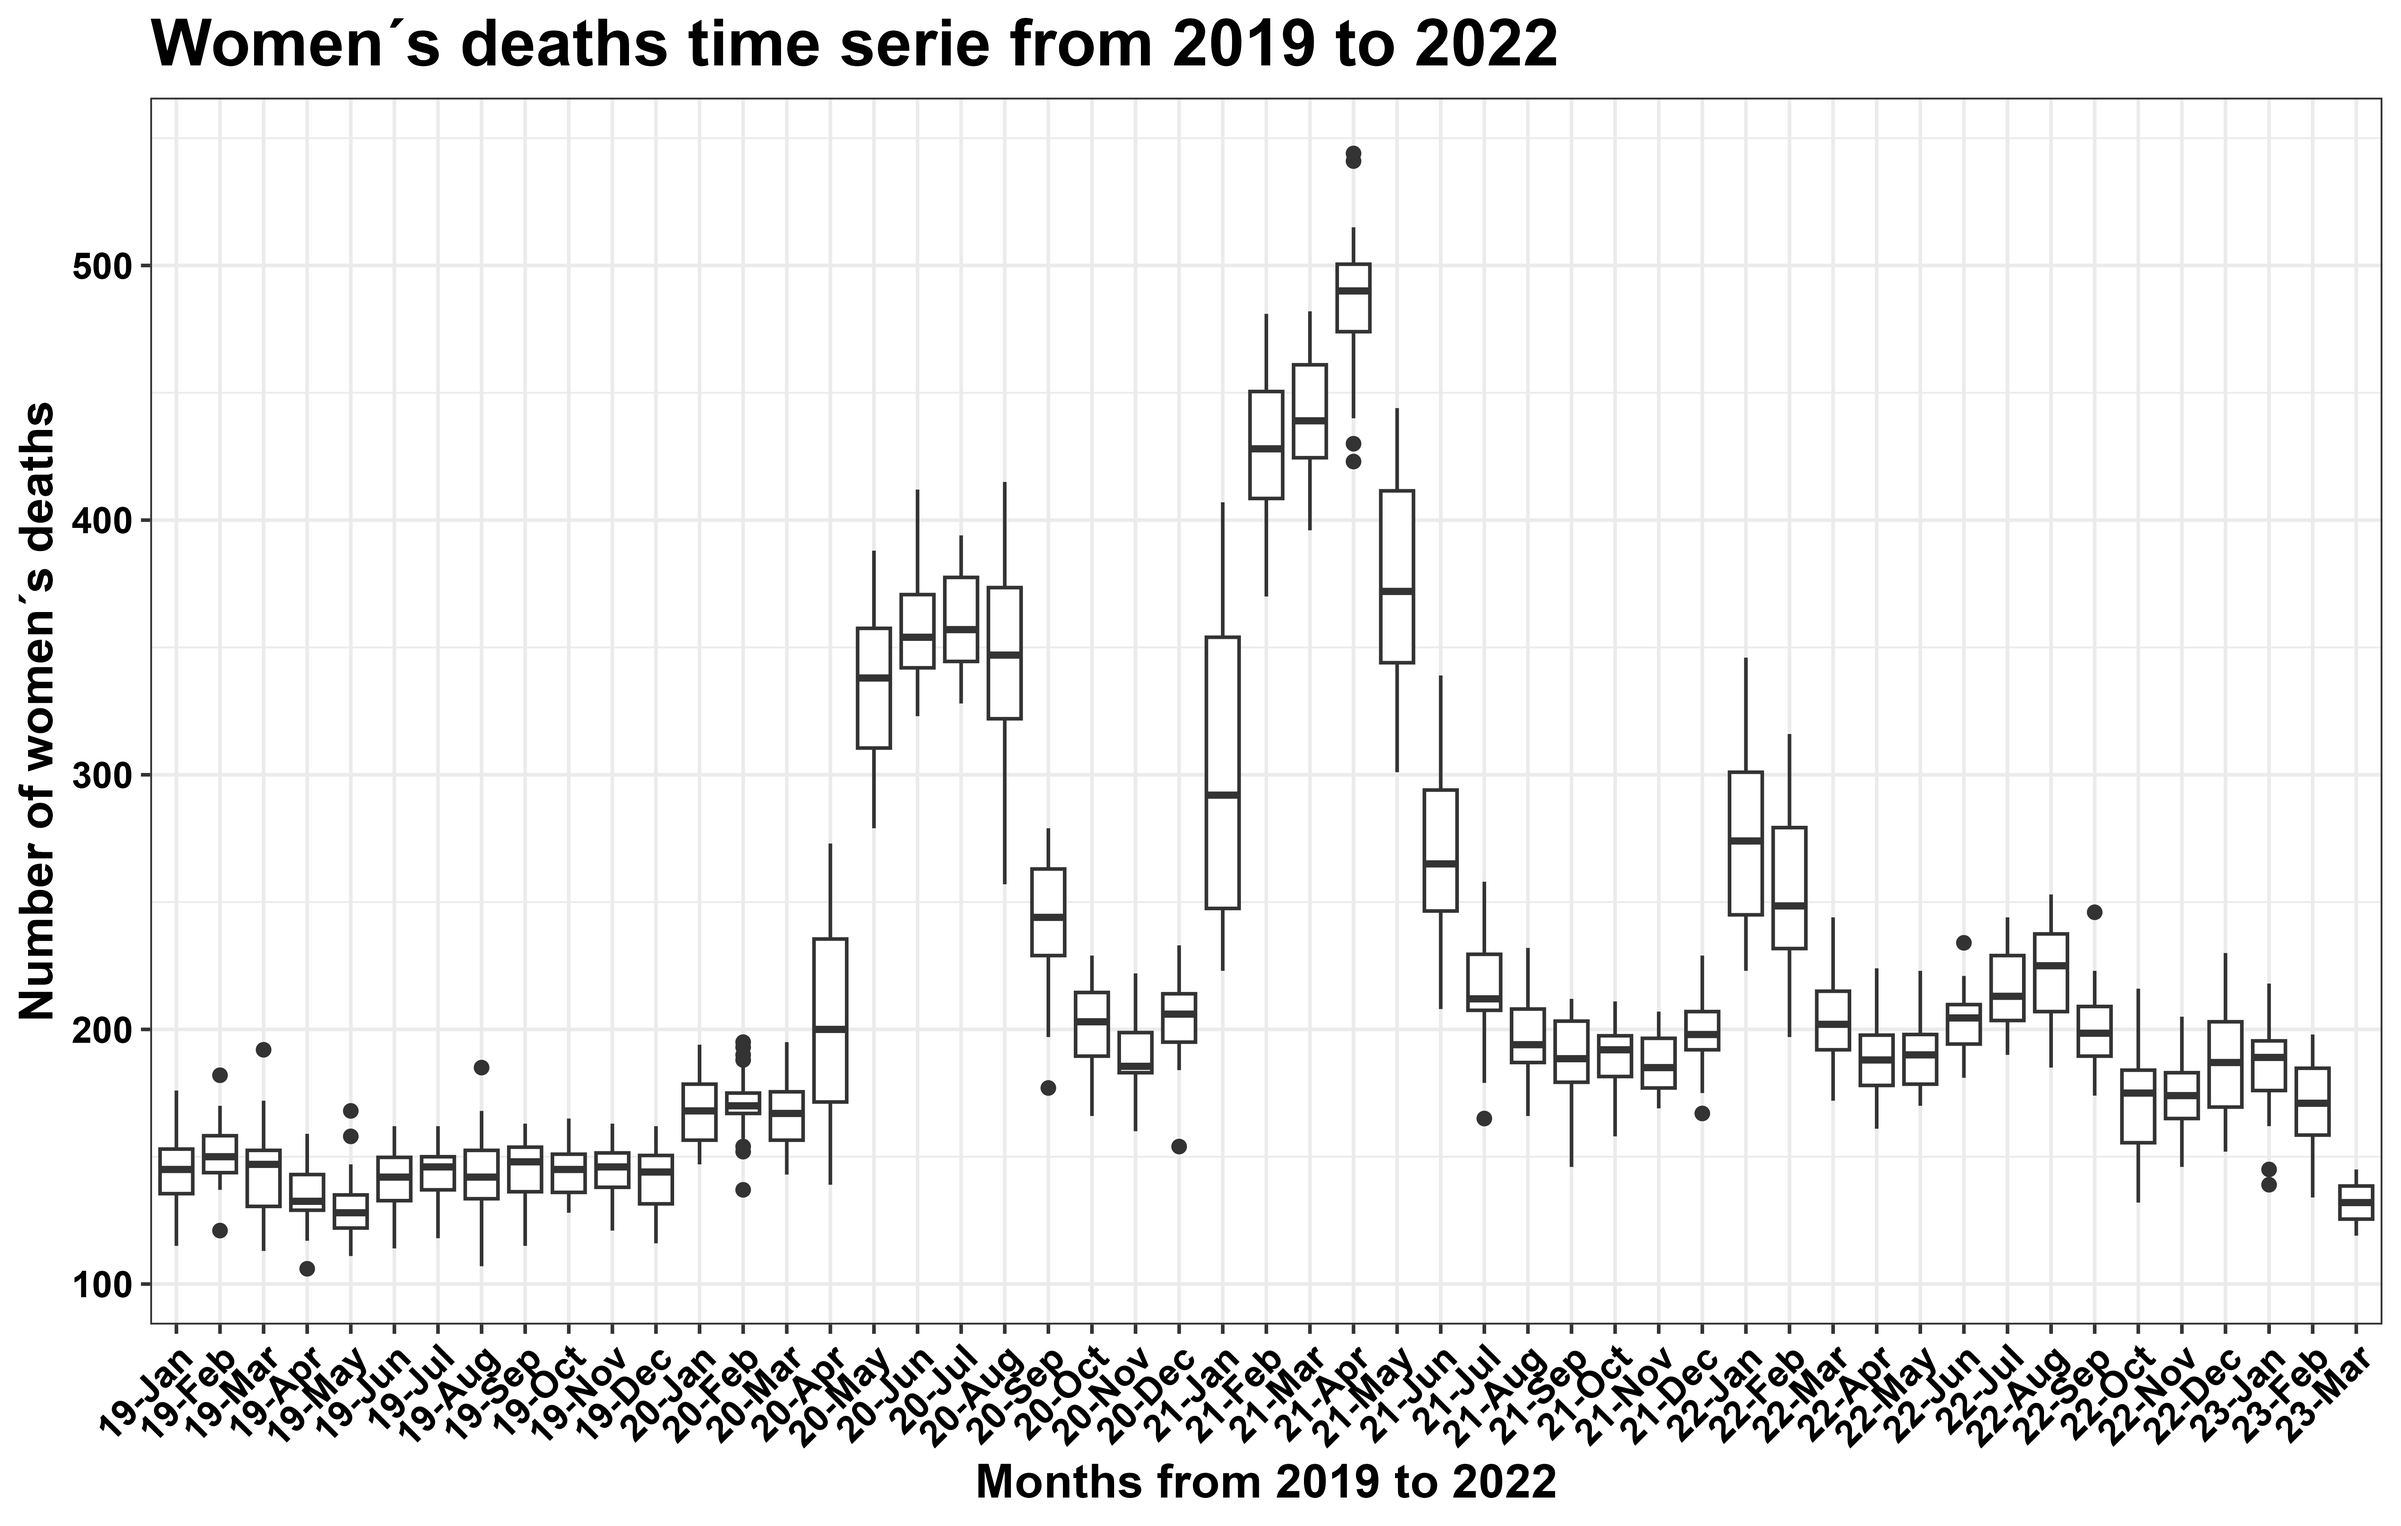
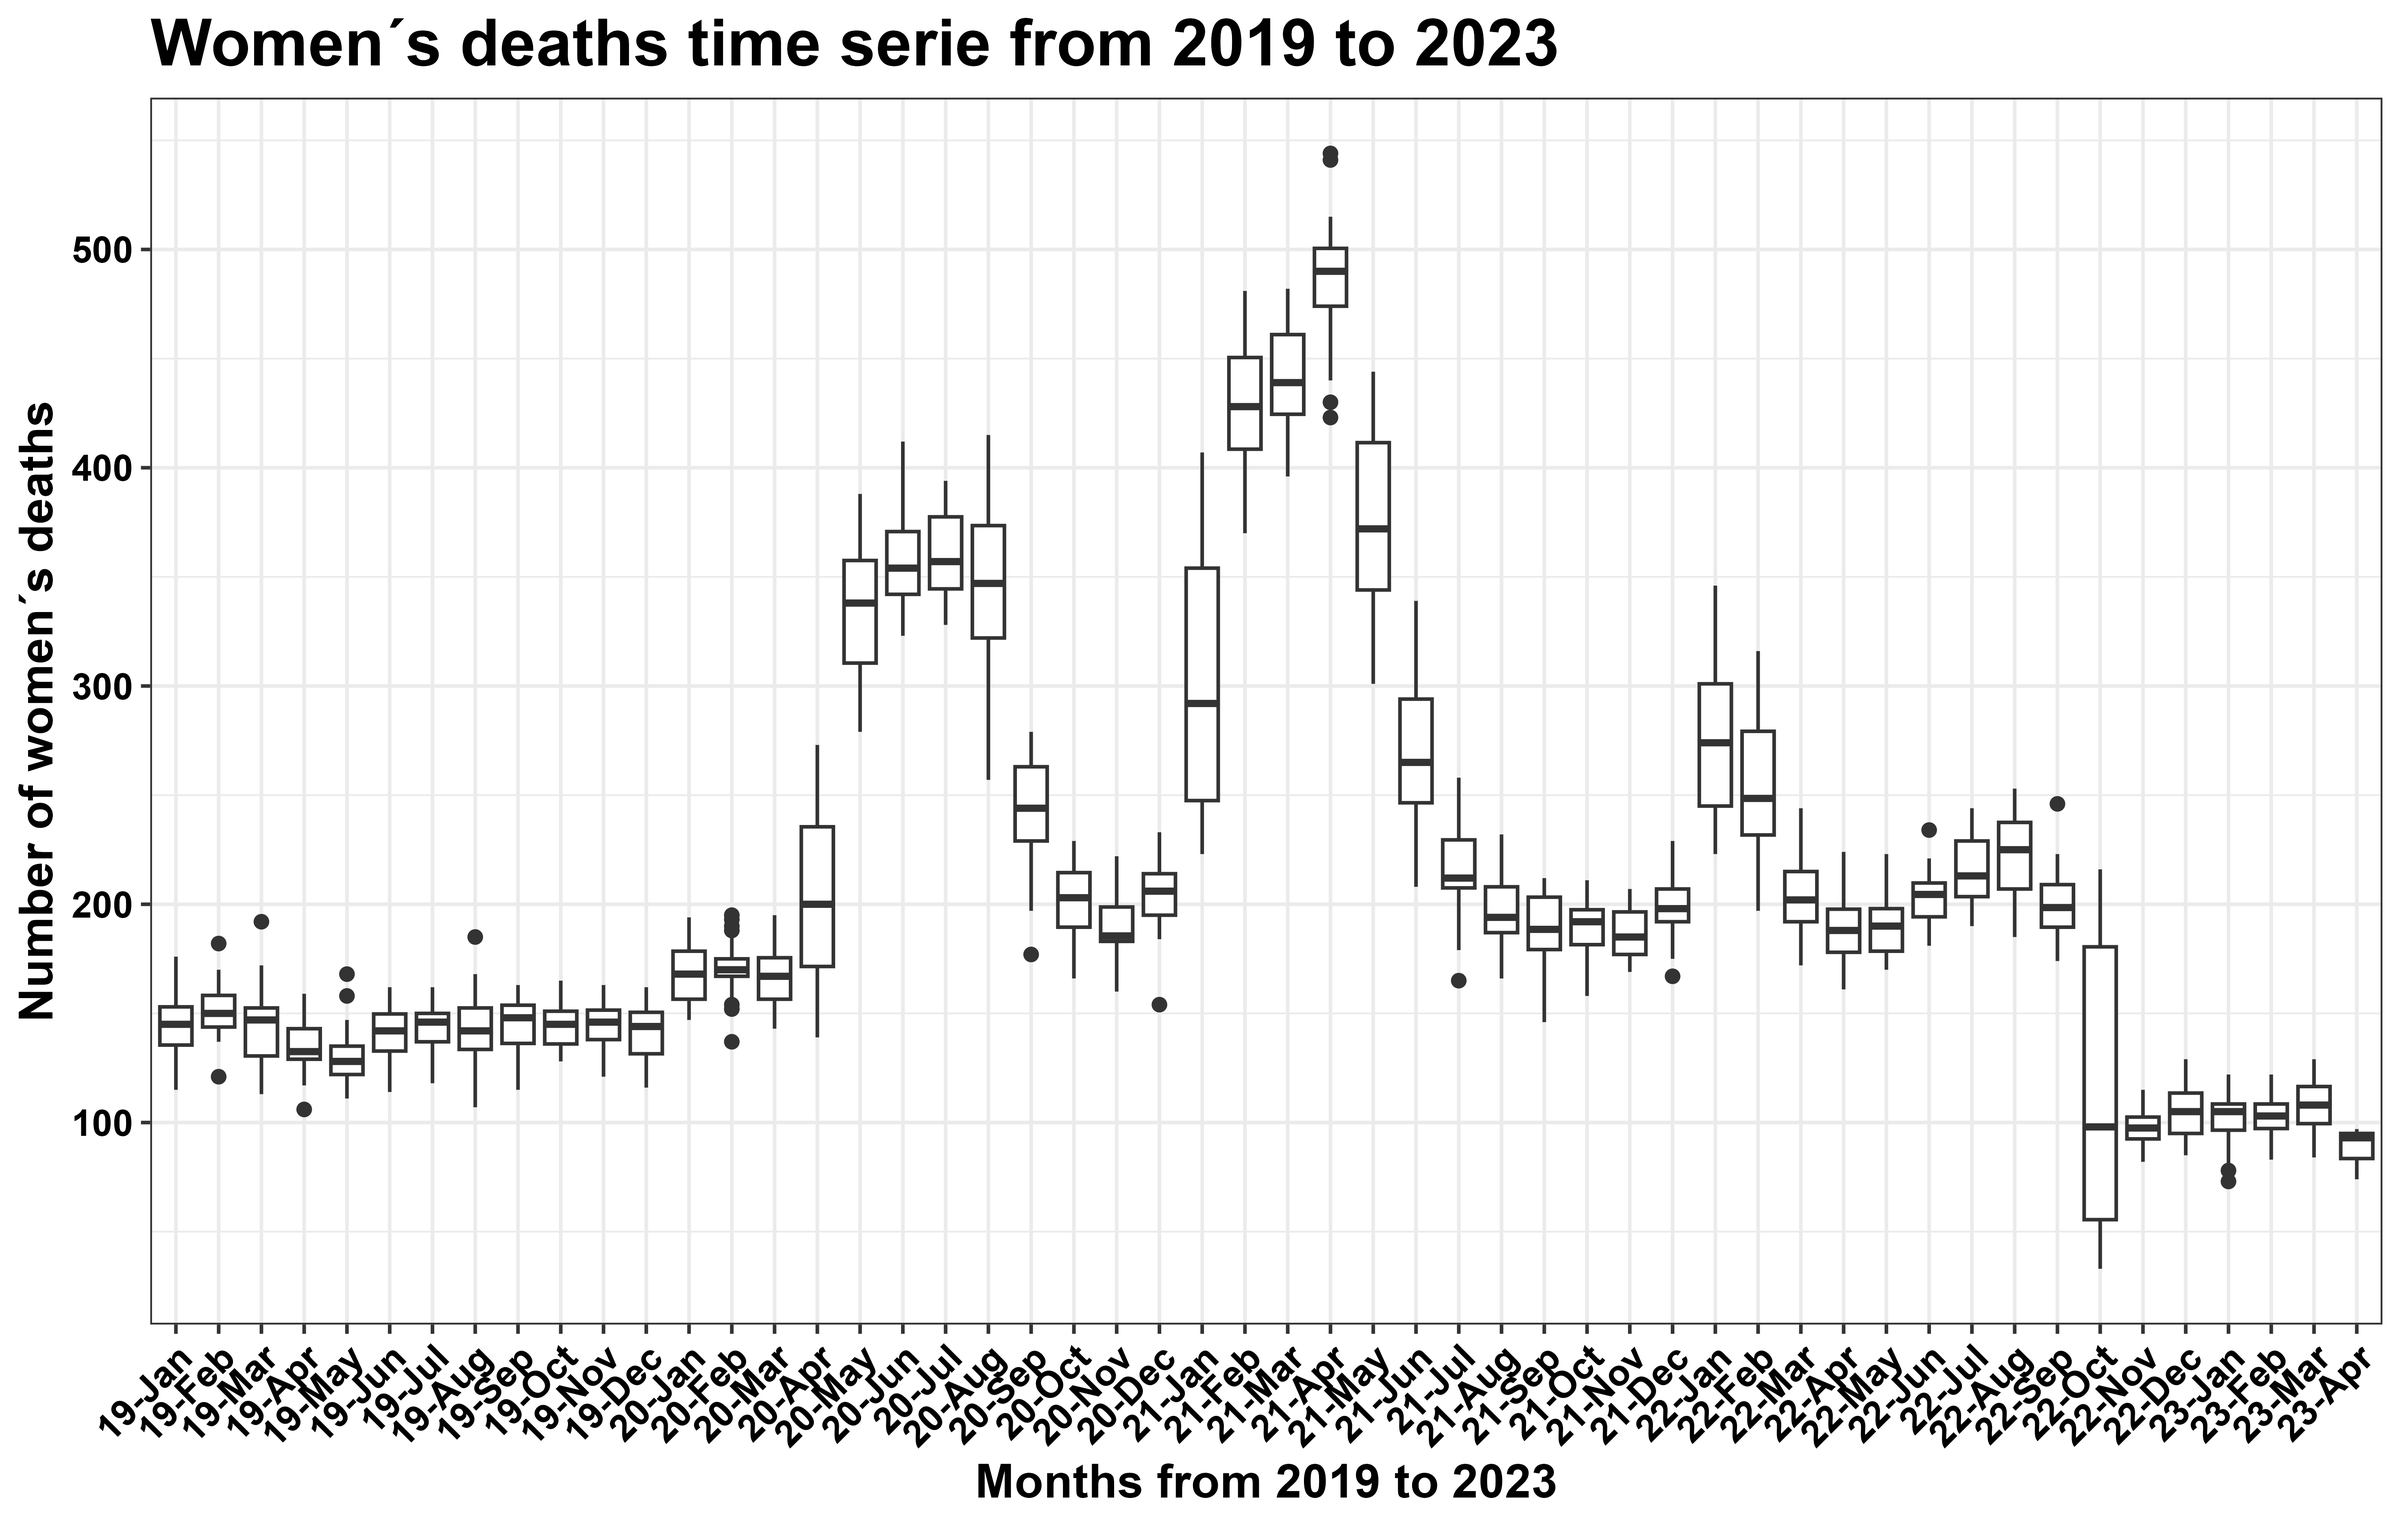
ok

diff --git a/README.md b/README.md
@@ -4,7 +4,7 @@ This project is trying of improving quality and order of Covid of Peru. First, I
 
 ## To clean and sort
 
-This part, I show that how to do in R script. my assumption is beginning date is 4th March, 2020 and last update is 13th March, 2023 [click here](https://github.com/jasb3110/COVIDPERU/blob/7d45ce76cc625757856c1cd3a60a7890105a2756/to%20clean%20and%20sort.md).
+This part, I show that how to do in R script. my assumption is beginning date is 4th March, 2020 and last update is 3rd April, 2023 [click here](https://github.com/jasb3110/COVIDPERU/blob/7d45ce76cc625757856c1cd3a60a7890105a2756/to%20clean%20and%20sort.md).
 
 ## Multivariate analyze
 
